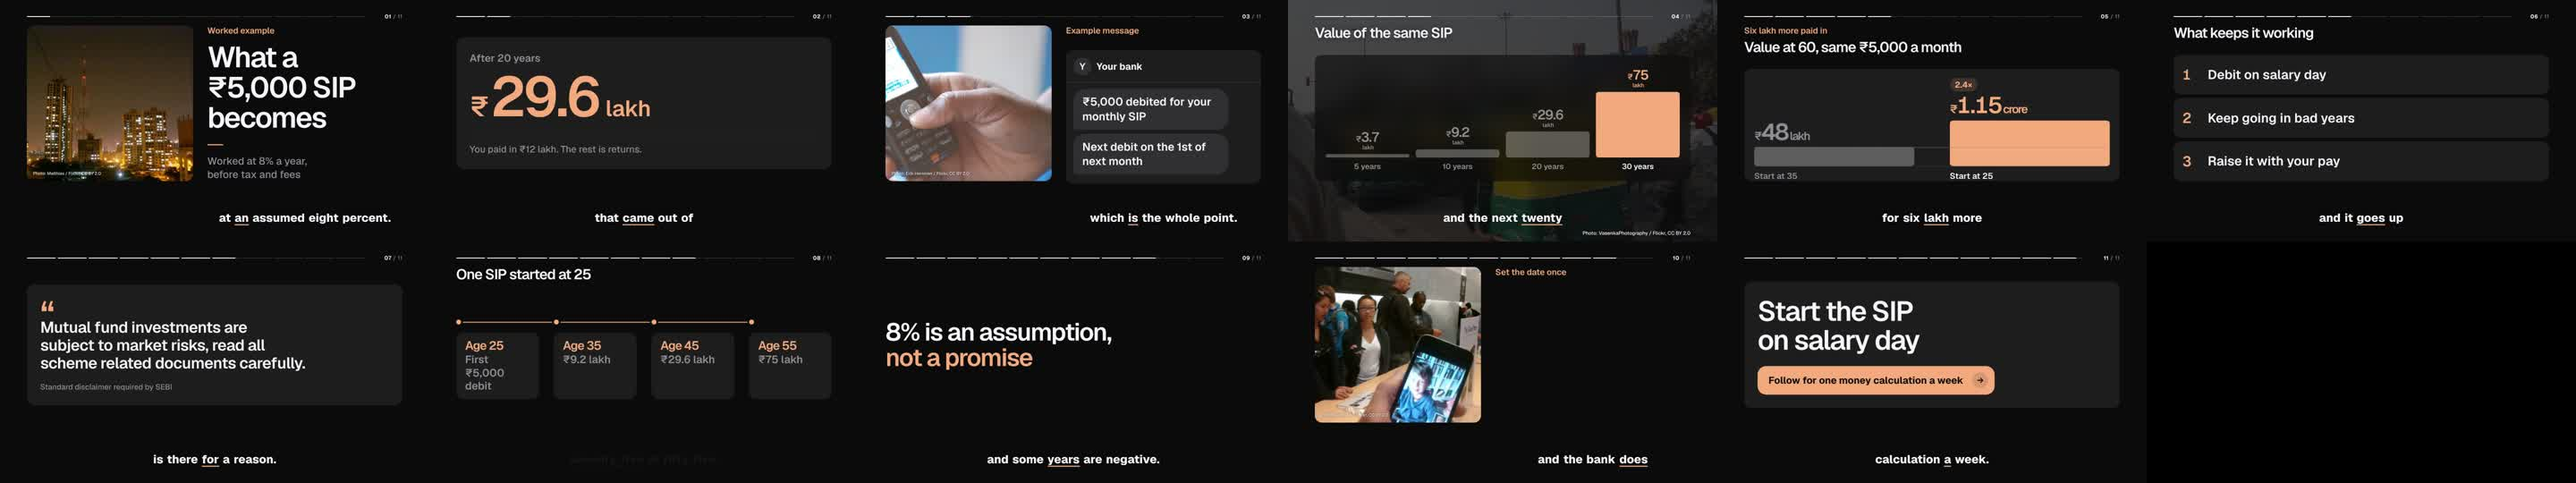
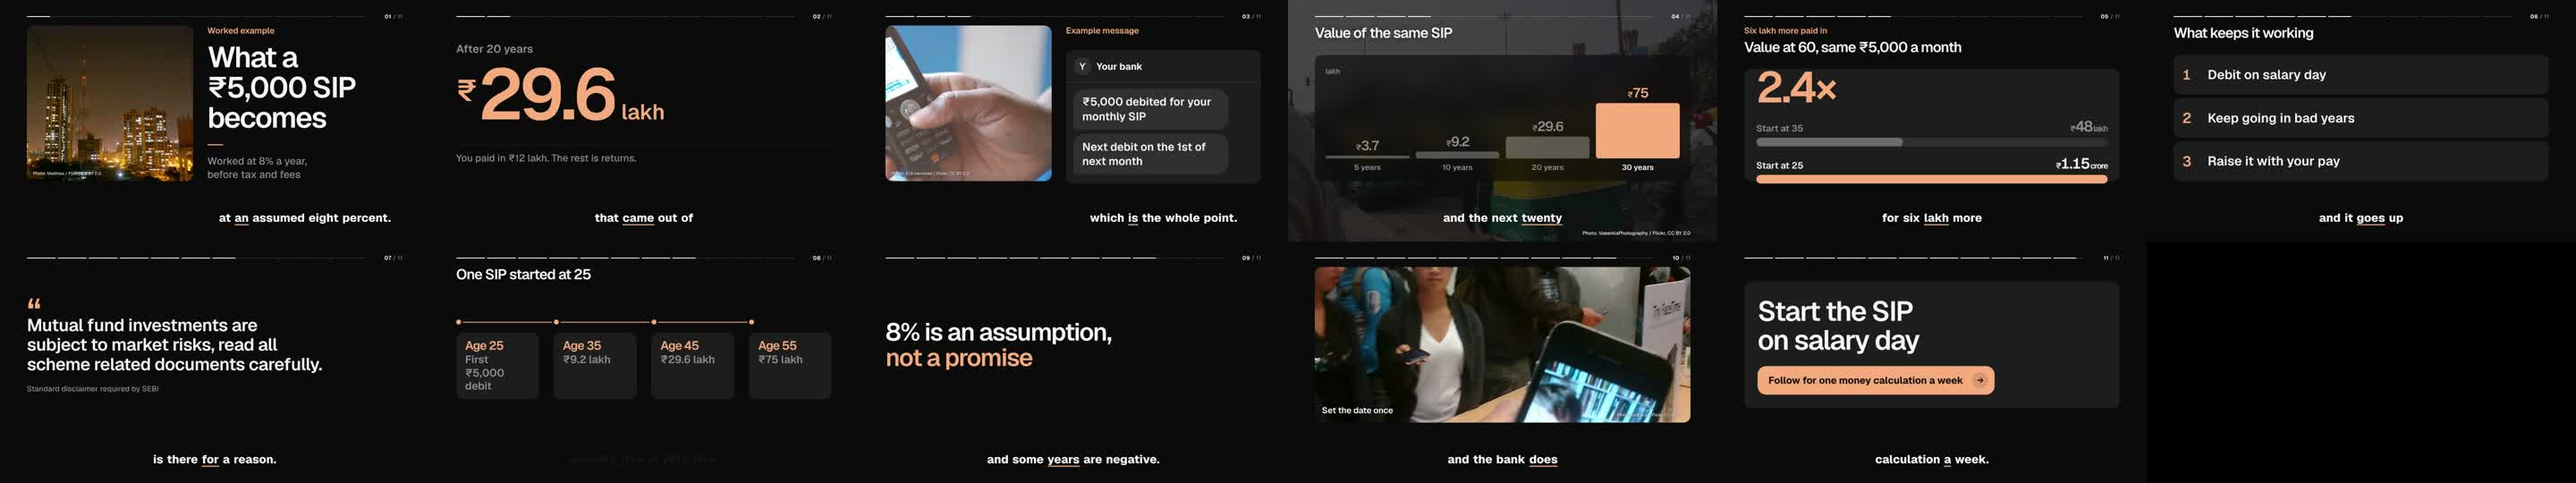
Make the numbers the hero
- stat: no tile; the number is set as large as the frame allows and its
  digits roll in like an odometer (columns sized to the final digit, edges
  softened mid-roll, kerning around separators restored); a percentage up to
  100 also fills a thin meter
- compare with two numbers leads with the difference (2.4x, +38%) and shows
  the two values as rows to the same scale
- bars: a unit every value shares is shown once at the top of the chart
- quote: big type on the background, no tile
- fade transitions lift slightly between scenes
- title photos get more height; the 16:9 image scene fills the frame
- docs and scenes.md describe the new behaviour

Claude-Session: https://claude.ai/code/session_015iGsKUNTqUMX6rbhQzKvLn

diff --git a/skills/vid-studio/assets/scenes/engine.js b/skills/vid-studio/assets/scenes/engine.js
@@ -491,6 +491,28 @@
       modifiers: { v: function (v) { node.textContent = formatValue(parseFloat(v), p); return v; } }
     }, Math.max(0, at));
   }
+  // Rolling digits: each digit is a column of 0-9 that rolls to its value, left to right, like an odometer.
+  // The final width is set from the start (tabular figures), so nothing reflows while it rolls.
+  function rollDigits(node, p) {
+    if (!node || !p || p.year) return null;
+    var txt = formatValue(p.value, p), cols = [];
+    node.innerHTML = '';
+    Array.from(txt).forEach(function (ch) {
+      var code = ch.charCodeAt(0), base = code >= 0x966 && code <= 0x96F ? 0x966 : 48, dgt = code - base;
+      if (dgt < 0 || dgt > 9) { node.appendChild(el('span', 'od-sep', esc(ch))); return; }
+      // the column is as wide as its final digit (a hidden copy holds the width); the reel rolls over it
+      var col = el('span', 'od', '<span class="od-w">' + esc(ch) + '</span>'), reel = el('span', 'od-r');
+      for (var k = 0; k <= 9; k++) reel.appendChild(el('span', 'od-d', String.fromCharCode(base + k)));
+      col.appendChild(reel); node.appendChild(col);
+      cols.push({ reel: reel, d: dgt });
+    });
+    return cols;
+  }
+  function roll(tl, cols, at, dur) {
+    (cols || []).forEach(function (c, i) {
+      tw(tl, c.reel, { yPercent: 0 }, { yPercent: -10 * c.d, duration: dur + i * 0.06, ease: 'expo.out' }, at + i * 0.05);
+    });
+  }
   function revealWords(tl, scope, at, a, opts) {
     opts = opts || {};
     var ws = qa(scope, '.w');
@@ -558,26 +580,50 @@
     };
   };
 
-  BUILD.stat = function (sc) {
-    var d = sc.data, st = el('div', 'stack'), box = el('div', 'card stat-card');
+  BUILD.stat = function (sc, ctx0) {
+    // with cards, the number is the hero: no tile, set as large as the frame allows, its digits rolling in
+    var cards = ctx0.design.cards.style !== 'flat';
+    var d = sc.data, st = el('div', 'stack'), box = el('div', 'stat-card');
     st.appendChild(box);
-    var label = null, ctx = null, line = null;
+    var label = null, ctx = null, line = null, meter = null, cols = null;
     if (plain(d.label)) { label = el('div', 'stat-label fit', rich(d.label)); tagLang(label, d.label); box.appendChild(label); }
     var p = parseValue(d.value);
     var val = el('div', 'value disp fit', valueHTML(d.value || '', p));
     tagLang(val, d.value); box.appendChild(val);
+    if (cards) cols = rollDigits(q(val, '.num'), p);
+    // a share (a percentage up to 100) also draws as a meter
+    var pct = p && /^\s*%/.test(p.suffix) && !p.negative && p.value > 0 && p.value <= 100 ? p.value : 0;
+    if (pct && cards) {
+      meter = el('div', 'meter', '<i></i>');
+      q(meter, 'i').style.width = pct + '%';
+      box.appendChild(meter);
+    }
     if (plain(d.context)) {
       line = el('div', 'stat-line'); box.appendChild(line);
       ctx = el('div', 'context fit', rich(d.context)); tagLang(ctx, d.context); box.appendChild(ctx);
     }
     return {
       stack: st,
+      // splitting the number into columns loses the font's kerning around "." and ",": measure the kerned
+      // number and take the difference back out of the separators
+      post: function () {
+        var num = cols && q(val, '.num'), seps = num ? qa(num, '.od-sep') : [];
+        if (!seps.length) return;
+        var probe = el('span', 'num', esc(formatValue(p.value, p)));
+        probe.style.cssText = 'position:absolute;visibility:hidden;white-space:nowrap';
+        num.parentNode.appendChild(probe);
+        var extra = num.getBoundingClientRect().width - probe.getBoundingClientRect().width;
+        var scale = num.offsetWidth / (num.getBoundingClientRect().width || 1);
+        probe.parentNode.removeChild(probe);
+        if (extra > 0.5) seps.forEach(function (sp) { sp.style.marginLeft = (-extra * scale / seps.length).toFixed(2) + 'px'; });
+      },
       anim: function (tl, a) {
         var at = a.t0;
-        cardIn(tl, a, box, at);
         if (label) { fadeUp(tl, a, label, at, 18); at += a.st(0.15); }
         tw(tl, val, { yPercent: 8, opacity: 0 }, { yPercent: 0, opacity: 1, duration: a.dur(0.8), ease: a.E.out }, at);
-        countUp(tl, q(val, '.num'), p, at, a.dur(1.3), a.E.num);
+        if (cols) roll(tl, cols, at, a.dur(1.4));
+        else countUp(tl, q(val, '.num'), p, at, a.dur(1.3), a.E.num);
+        if (meter) tw(tl, q(meter, 'i'), { scaleX: 0 }, { scaleX: 1, duration: a.dur(1.4), ease: 'expo.out' }, at + 0.1);
         if (line) drawLine(tl, a, line, at + a.st(0.35));
         if (ctx) fadeUp(tl, a, ctx, at + a.st(0.5), 16);
       }
@@ -586,10 +632,16 @@
 
   // Short labels draw columns that fill the frame (a series: years, steps); long labels or negative values
   // draw horizontal rows (a ranking). The largest value takes the accent.
-  BUILD.bars = function (sc) {
+  BUILD.bars = function (sc, ctx) {
     var d = sc.data, st = el('div', 'stack fill');
     var head = headingEl(d.title);
     var items = pairs(d.items, 8, ['label', 'value']).map(function (it) { it.p = parseValue(it.value); return it; });
+    // a unit every value shares ("lakh", "crore", "km") is said once, at the top of the chart, not under each bar
+    var sufs = items.map(function (it) { return it.p ? it.p.suffix.trim() : ''; });
+    var unit = ctx && ctx.design.cards.style !== 'flat' && items.length > 1 && sufs[0] && !/^%/.test(sufs[0]) &&
+      sufs.every(function (x) { return x === sufs[0]; }) ? sufs[0] : '';
+    if (unit) items.forEach(function (it) { it.p = Object.assign({}, it.p, { suffix: '' }); });
+    function unitNote(card) { if (unit) { var n = el('div', 'unit-note', rich(unit)); tagLang(n, unit); card.insertBefore(n, card.firstChild); } }
     var mags = items.map(function (it) { return it.p ? Math.abs(it.p.magnitude) : 0; });
     var max = Math.max.apply(null, mags.concat([0])) || 1;
     var maxI = mags.indexOf(Math.max.apply(null, mags.concat([0])));
@@ -611,7 +663,7 @@
         return { bar: bar, value: v, label: lab, zone: zone, h: h, val: q(v, '.num'), p: it.p };
       });
       var base = el('div', 'cc-base'); chart.appendChild(base);
-      var colCard = el('div', 'card chart-card'); colCard.appendChild(chart);
+      var colCard = el('div', 'card chart-card'); colCard.appendChild(chart); unitNote(colCard);
       st.appendChild(colCard);
       return {
         head: head, stack: st,
@@ -652,7 +704,7 @@
       row.appendChild(hd); row.appendChild(track); bars.appendChild(row);
       return { head: hd, fill: fill, val: q(v, '.num'), p: it.p };
     });
-    var rowCard = el('div', 'card chart-card'); rowCard.appendChild(bars);
+    var rowCard = el('div', 'card chart-card'); rowCard.appendChild(bars); unitNote(rowCard);
     st.appendChild(rowCard);
     return {
       head: head, stack: st,
@@ -674,7 +726,7 @@
   // Two values side by side. The second item is the subject (the "after", the "new", the thing the
   // story is about), so it takes the accent whichever is larger. A dashed line carries the first value
   // across, so the gap between them is something you can see.
-  BUILD.compare = function (sc) {
+  BUILD.compare = function (sc, ctx) {
     var d = sc.data, st = el('div', 'stack fill');
     var head = headingEl(d.title);
     var items = pairs(d.items, 2, ['label', 'value']).map(function (it) { it.p = parseValue(it.value); return it; });
@@ -692,6 +744,7 @@
         else if (ratio > 1) delta = '+' + Math.round((ratio - 1) * 100) + '%';
         else delta = '−' + Math.round((1 - ratio) * 100) + '%';
       }
+      if (ctx && ctx.design.cards.style !== 'flat') return compareRows(head, st, items, [mA / mx, mB / mx], delta);
       parts = items.map(function (it, i) {
         var col = el('div', 'col' + (i === 1 ? ' subject' : ''));
         var area = el('div', 'col-bar-area');
@@ -756,6 +809,41 @@
     };
   };
 
+  // Two numbers on a tile: the difference between them is the headline (2.4×, +38%), and the two values sit
+  // below it as rows with bars to the same scale. The second is the subject and takes the accent.
+  function compareRows(head, st, items, shares, delta) {
+    var tile = el('div', 'card chart-card cmp');
+    var hero = null;
+    if (delta) { hero = el('div', 'cmp-delta disp tnum', esc(delta)); tile.appendChild(hero); }
+    var rows = items.map(function (it, i) {
+      var row = el('div', 'cmp-row' + (i === 1 ? ' subject' : ''));
+      var hd = el('div', 'cmp-head');
+      var lab = el('span', 'cmp-label', rich(it.label)); tagLang(lab, it.label);
+      var v = el('span', 'cmp-value disp', valueHTML(it.value, it.p)); tagLang(v, it.value);
+      hd.appendChild(lab); hd.appendChild(v);
+      var track = el('div', 'cmp-track'), fill = el('i');
+      fill.style.width = Math.max(2, shares[i] * 100).toFixed(2) + '%';
+      track.appendChild(fill);
+      row.appendChild(hd); row.appendChild(track); tile.appendChild(row);
+      return { row: row, fill: fill, val: q(v, '.num'), p: it.p };
+    });
+    st.appendChild(tile);
+    return {
+      head: head, stack: st,
+      anim: function (tl, a) {
+        var at = revealHead(tl, a, head, a.t0);
+        cardIn(tl, a, tile, at - a.st(0.1));
+        rows.forEach(function (r, i) {
+          var t = at + 0.1 + i * a.st(0.35);
+          tw(tl, r.row, { opacity: 0, y: a.dist(16) }, { opacity: 1, y: 0, duration: a.dur(0.6), ease: a.E.out }, t);
+          tw(tl, r.fill, { scaleX: 0 }, { scaleX: 1, duration: a.dur(1.2), ease: 'expo.out' }, t + 0.05);
+          countUp(tl, r.val, r.p, t + 0.05, a.dur(1.2), a.E.num);
+        });
+        if (hero) tw(tl, hero, { opacity: 0, y: a.dist(20) }, { opacity: 1, y: 0, duration: a.dur(0.8), ease: 'expo.out' }, at + 0.1 + a.st(0.35) + a.dur(0.6));
+      }
+    };
+  }
+
   BUILD.list = function (sc) {
     var d = sc.data, st = el('div', 'stack fill');
     var head = headingEl(d.title);
@@ -792,7 +880,7 @@
 
   BUILD.quote = function (sc, ctx) {
     var d = sc.data, st = el('div', 'stack'), cards = ctx.design.cards.style !== 'flat';
-    var wrap = el('div', 'quote card');
+    var wrap = el('div', 'quote');
     var bar = el('span', 'quote-bar'); wrap.appendChild(bar);
     // on a card the opening mark is set large above the words, so the words carry no marks of their own
     var mark = cards ? el('span', 'qmark disp', '\u201C') : null;
@@ -995,11 +1083,11 @@
     var frame = q(x.el, '.frame'), head = q(x.el, '.head'), st = q(x.el, '.stack');
     var W = L.width, H = L.height, c = L.content, bottom = c.top + c.height, gap = L.landscape ? 72 : 64;
     var wide = c.width > c.height * 0.9;
-    x.el.classList.add(wide ? 'photo-left' : 'photo-above');
+    x.el.classList.add(wide && !(cards && x.sc.type === 'image') ? 'photo-left' : 'photo-above');
     if (cards) {
       // a rounded photo card inside the safe area, on the same edges as the cards below it
       gap = L.landscape ? 64 : 48;
-      if (wide) {
+      if (wide && x.sc.type !== 'image') {
         var cw = Math.round((c.width - gap) * 0.46), tl0 = c.left + cw + gap;
         x.photo.el.style.cssText += ';left:' + c.left + 'px;top:' + c.top + 'px;width:' + cw + 'px;height:' + c.height + 'px';
         frame.style.left = tl0 + 'px'; frame.style.width = (c.left + c.width - tl0) + 'px';
@@ -1027,7 +1115,7 @@
       x.el.style.setProperty('--k', '1');
       fitWidths(x.el);
       var need0 = (head ? head.offsetHeight : 0) + (x.sc.type === 'image' ? 0 : st.scrollHeight);
-      var ch0 = Math.round(clamp(c.height - need0 - gap, H * 0.2, H * (x.sc.type === 'image' ? 0.62 : 0.4)));
+      var ch0 = Math.round(clamp(c.height - need0 - gap, H * (x.sc.type === 'title' ? 0.28 : 0.2), H * (x.sc.type === 'image' ? 0.62 : 0.4)));
       x.photo.el.style.cssText += ';left:' + c.left + 'px;top:' + c.top + 'px;width:' + c.width + 'px;height:' + ch0 + 'px';
       frame.style.top = (c.top + ch0 + gap) + 'px'; frame.style.height = Math.max(120, bottom - c.top - ch0 - gap) + 'px';
       return;
@@ -1580,14 +1668,14 @@
           var first = true;
           if (i > 0 && trans !== 'cut' && trans !== 'wipe') {
             var dur = 2 * o, at = x.clipStart;
-            if (trans === 'fade') tw(tl, x.inner, { opacity: 0 }, { opacity: 1, duration: dur * 0.7, ease: 'power2.out' }, at + dur * 0.3);
+            if (trans === 'fade') tw(tl, x.inner, { opacity: 0, y: 28 * M.dist }, { opacity: 1, y: 0, duration: dur * 0.85, ease: 'power3.out' }, at + dur * 0.3);
             else if (trans === 'slide') tw(tl, x.inner, { xPercent: 8 * M.dist, opacity: 0 }, { xPercent: 0, opacity: 1, duration: dur * 0.65, ease: E.out }, at + dur * 0.35);
             else if (trans === 'zoom') tw(tl, x.inner, { scale: 0.97, opacity: 0 }, { scale: 1, opacity: 1, duration: dur * 0.65, ease: E.out }, at + dur * 0.35);
             first = false;
           }
           if (i < built.length - 1 && trans !== 'cut' && trans !== 'wipe') {
             var dur2 = 2 * o, at2 = e - o;
-            if (trans === 'fade') tw(tl, x.inner, { opacity: 1 }, { opacity: 0, duration: dur2 * 0.55, ease: 'power2.in' }, at2, first ? undefined : false);
+            if (trans === 'fade') tw(tl, x.inner, { opacity: 1, y: 0 }, { opacity: 0, y: -14 * M.dist, duration: dur2 * 0.55, ease: 'power2.in' }, at2, first ? undefined : false);
             else if (trans === 'slide') tw(tl, x.inner, { xPercent: 0, opacity: 1 }, { xPercent: -8 * M.dist, opacity: 0, duration: dur2 * 0.6, ease: 'power2.in' }, at2, first ? undefined : false);
             else if (trans === 'zoom') tw(tl, x.inner, { scale: 1, opacity: 1 }, { scale: 1.03, opacity: 0, duration: dur2 * 0.6, ease: 'power2.in' }, at2, first ? undefined : false);
           }

diff --git a/skills/vid-studio/assets/scenes/engine.css b/skills/vid-studio/assets/scenes/engine.css
@@ -355,12 +355,22 @@
 .vid-stage.cards .progress .seg, .vid-stage.cards .progress .seg i { border-radius: 99px; }
 .vid-stage.cards .logo .logo-mark, .vid-stage.cards .scene-end .end-logo .logo-mark { border-radius: 50%; }
 
-/* stat */
-.vid-stage.cards .stat-card { padding: calc(var(--k) * 64px) calc(var(--k) * 60px) calc(var(--k) * 60px); }
-.vid-stage.cards .scene-stat .stat-label { font-size: calc(var(--k) * var(--ts) * 46px); color: var(--muted); margin-bottom: calc(var(--k) * 8px); }
-.vid-stage.cards .scene-stat .value { font-size: calc(var(--k) * var(--kw, 1) * var(--ts) * 250px); }
-.vid-stage.cards .scene-stat .stat-line { height: 2px; margin: calc(var(--k) * 40px) 0 calc(var(--k) * 32px); }
-.vid-stage.cards .scene-stat .context { font-size: calc(var(--k) * var(--ts) * 42px); }
+/* stat: the number is the hero, no tile; its digits roll in like an odometer */
+.vid-stage.cards .scene-stat .stat-label { font-size: calc(var(--k) * var(--ts) * 50px); font-weight: 600; color: var(--muted); margin-bottom: calc(var(--k) * 4px); }
+.vid-stage.cards .scene-stat .value { font-size: calc(var(--k) * var(--kw, 1) * var(--ts) * 320px); letter-spacing: calc(var(--tracking) * 1.2); padding: .02em 0 .06em; }
+.vid-stage.cards .scene-stat .value .suf { font-size: .3em; margin-left: .1em; letter-spacing: 0; }
+.vid-stage.cards .scene-stat .value .suf.pct { font-size: .55em; margin-left: .02em; }
+.vid-stage.cards .scene-stat .value .pre { font-size: .42em; vertical-align: .62em; margin-right: .04em; }
+.vid-stage.cards .scene-stat .stat-line { height: 2px; margin: calc(var(--k) * 44px) 0 calc(var(--k) * 32px); }
+.vid-stage.cards .scene-stat .context { font-size: calc(var(--k) * var(--ts) * 44px); max-width: 92%; }
+.vid-stage .od { position: relative; display: inline-block; height: 1.3em; margin: -.15em 0; overflow: hidden; vertical-align: top; line-height: 1.3;
+  -webkit-mask-image: linear-gradient(transparent, #000 9%, #000 91%, transparent); mask-image: linear-gradient(transparent, #000 9%, #000 91%, transparent); }
+.vid-stage .od-w { visibility: hidden; }
+.vid-stage .od-r { position: absolute; left: -.2em; right: -.2em; top: 0; text-align: center; }
+.vid-stage .od-d { display: block; height: 1.3em; line-height: 1.3; }
+.vid-stage .od-sep { display: inline-block; line-height: 1; vertical-align: top; font-variant-numeric: proportional-nums lining-nums; }
+.vid-stage .meter { height: calc(var(--k) * 14px); margin-top: calc(var(--k) * 36px); border-radius: 99px; background: var(--card-fill); overflow: hidden; }
+.vid-stage .meter i { display: block; height: 100%; border-radius: 99px; background: var(--accent); transform-origin: 0 50%; }
 
 /* charts */
 .vid-stage .chart-card { flex: 1; min-height: 0; display: flex; flex-direction: column; }
@@ -370,6 +380,21 @@
 .vid-stage.cards .scene-bars .bars { justify-content: space-evenly; }
 .vid-stage.cards .scene-bars .bar-track { height: calc(var(--k) * 36px); border-radius: 999px; }
 .vid-stage.cards .scene-bars .bar-fill { border-radius: 999px; }
+
+/* compare, two numbers: the difference is the headline; the two values below, as rows to the same scale */
+.vid-stage.cards .cmp { justify-content: center; gap: calc(var(--k) * 44px); padding: calc(var(--k) * 64px) calc(var(--k) * 56px); }
+.vid-stage .cmp-delta { font-size: calc(var(--k) * var(--ts) * 200px); line-height: .95; color: var(--accent); margin-bottom: calc(var(--k) * 8px); }
+.vid-stage .cmp-row { display: flex; flex-direction: column; gap: calc(var(--k) * 18px); }
+.vid-stage .cmp-head { display: flex; justify-content: space-between; align-items: baseline; gap: 24px; }
+.vid-stage .cmp-label { font: 600 calc(var(--k) * var(--ts) * 42px)/1.2 var(--font-body); color: var(--muted); min-width: 0; }
+.vid-stage .cmp-value { font-size: calc(var(--k) * var(--ts) * 68px); line-height: 1; color: var(--muted); white-space: nowrap; }
+.vid-stage .cmp-value .pre, .vid-stage .cmp-value .suf { font-size: .55em; }
+.vid-stage .cmp-track { height: calc(var(--k) * 40px); border-radius: 99px; background: var(--knob); overflow: hidden; }
+.vid-stage .cmp-track i { display: block; height: 100%; border-radius: 99px; background: var(--bar-dim); transform-origin: 0 50%; }
+.vid-stage .cmp-row.subject .cmp-label { color: var(--text); }
+.vid-stage .cmp-row.subject .cmp-value { color: var(--text); }
+.vid-stage .cmp-row.subject .cmp-track i { background: var(--accent); }
+.vid-stage .unit-note { flex: none; margin-bottom: calc(var(--k) * 12px); font: 600 calc(var(--k) * var(--ts) * 32px)/1.2 var(--font-body); color: var(--muted); }
 
 /* compare */
 .vid-stage.cards .scene-compare .col-bar { border-radius: calc(var(--radius) * .45); }
@@ -394,10 +419,10 @@
 .vid-stage.cards .scene-list .item-text { font-size: calc(var(--k) * var(--kw, 1) * var(--ts) * 58px); }
 
 /* quote */
-.vid-stage.cards .scene-quote .quote { padding: calc(var(--k) * 64px) calc(var(--k) * 60px) calc(var(--k) * 60px); }
+.vid-stage.cards .scene-quote .quote { padding: 0; }
 .vid-stage.cards .scene-quote .quote-bar { display: none; }
 .vid-stage.cards .scene-quote .qmark { display: block; height: .4em; margin-bottom: calc(var(--k) * 28px); font-size: calc(var(--k) * var(--ts) * 150px); line-height: .9; color: var(--accent); letter-spacing: 0; }
-.vid-stage.cards .scene-quote .quote-text { font-size: calc(var(--k) * var(--kw, 1) * var(--ts) * 70px); }
+.vid-stage.cards .scene-quote .quote-text { font-size: calc(var(--k) * var(--kw, 1) * var(--ts) * 78px); line-height: 1.12; }
 .vid-stage.cards .scene-quote .source { padding: 0; margin-top: calc(var(--k) * 44px); font-size: calc(var(--k) * var(--ts) * 34px); }
 
 /* timeline */

diff --git a/docs/rounded-tiles/README.md b/docs/rounded-tiles/README.md
@@ -20,19 +20,22 @@ Graphite, a new look: near-black, soft white, one warm accent, Geist throughout.
 
 **One tile per idea.** Each idea gets one flat, rounded tile, one step lighter (or darker) than the background:
 
-- A stat and its context share one tile.
 - A chart sits on one tile.
 - Each list point and each timeline date gets its own tile.
 - Two phrases in a compare sit on two tiles, with a small arrow from the first to the second.
-- A quote sits under a large opening mark.
+- A quote is big type under a large opening mark, with no tile.
 - A message is a chat thread, with the sender's initial in a round avatar.
 - The end card has a solid call-to-action button.
+
+**Numbers are the hero.** A stat drops its tile, and the number is set as large as the frame allows. Its digits roll in like an odometer, with each column as wide as its final digit, so nothing shifts. A percentage up to 100 also fills a thin meter. A compare of two numbers leads with the difference between them (`2.4×`, `+38%`), with the two values as rows below on the same scale. A bar chart whose values share a unit ("lakh") shows it once, at the top.
+
+![Hero numbers](assets/hero-numbers.jpg)
 
 **Labels are eyebrows.** `Text:` labels and kickers are small accent text in sentence case, not boxes. On a photo card the label sits on the photo's bottom-left corner, so the scene below keeps its full size.
 
 **Photos.** A photo above a scene is a rounded photo card on the plain background. In the image scene the photo takes the whole space. Behind a chart, the photo fills the frame under a flat veil, and the chart's tile frosts the part it covers. That is the only blur in the system, and it is there so the values stay readable.
 
-**Motion.** Tiles rise a short way and settle on a long ease. Nothing bounces, and holds stay still.
+**Motion.** Tiles rise a short way and settle on a long ease, and fades lift slightly as one scene hands over to the next. Nothing bounces, and holds stay still.
 
 **Fixes.** The scene counter ("11 / 11") no longer sits on the progress line. A photo credit with no source beside it is no longer cut off. Text inside tiles is sized for a phone.
 
@@ -40,7 +43,7 @@ Rendering costs about 66 ms a frame, against 61 for the old flat look.
 
 ![Over photos](assets/glass-over-photos.jpg)
 
-![Motion: a scene change and a chart building](assets/motion.gif)
+![Motion: the stat's digits rolling in](assets/motion.gif)
 
 ## It works in every look
 

diff --git a/skills/vid-studio/references/scenes.md b/skills/vid-studio/references/scenes.md
@@ -45,9 +45,9 @@ Fields are separated by `|`, in this order. Trailing fields are optional. Number
 | Type | Fields | Use it for |
 |---|---|---|
 | `title` | title \| subtitle \| kicker | Opening or section title |
-| `stat` | value \| label \| context | One big number that carries the beat |
-| `bars` | title \| Label: value \| Label: value … | 2–6 values to compare as a bar chart |
-| `compare` | title \| Label: value \| Label: value | Before/after, this vs that (exactly two). The **second** item is the subject (the after, the new thing, the claim) and takes the accent. Two numbers draw bars; two short phrases draw side-by-side panels |
+| `stat` | value \| label \| context | One big number that carries the beat. With tiles it is the hero of the frame, its digits rolling in like an odometer; a percentage up to 100 also draws a thin meter |
+| `bars` | title \| Label: value \| Label: value … | 2–6 values to compare as a bar chart. A unit every value shares (`lakh`, `crore`, `km`) is shown once at the top of the chart |
+| `compare` | title \| Label: value \| Label: value | Before/after, this vs that (exactly two). The **second** item is the subject (the after, the new thing, the claim) and takes the accent. Two numbers draw bars (with tiles, the difference between them, like `2.4×` or `+38%`, becomes the headline, with the two values as rows below); two short phrases draw two panels |
 | `list` | title \| item \| item … | 2–5 short points, steps, or reasons |
 | `quote` | quote \| source | A real quote from a source in the notes |
 | `timeline` | title \| date: label \| date: label … | 2–5 dated events in order |
